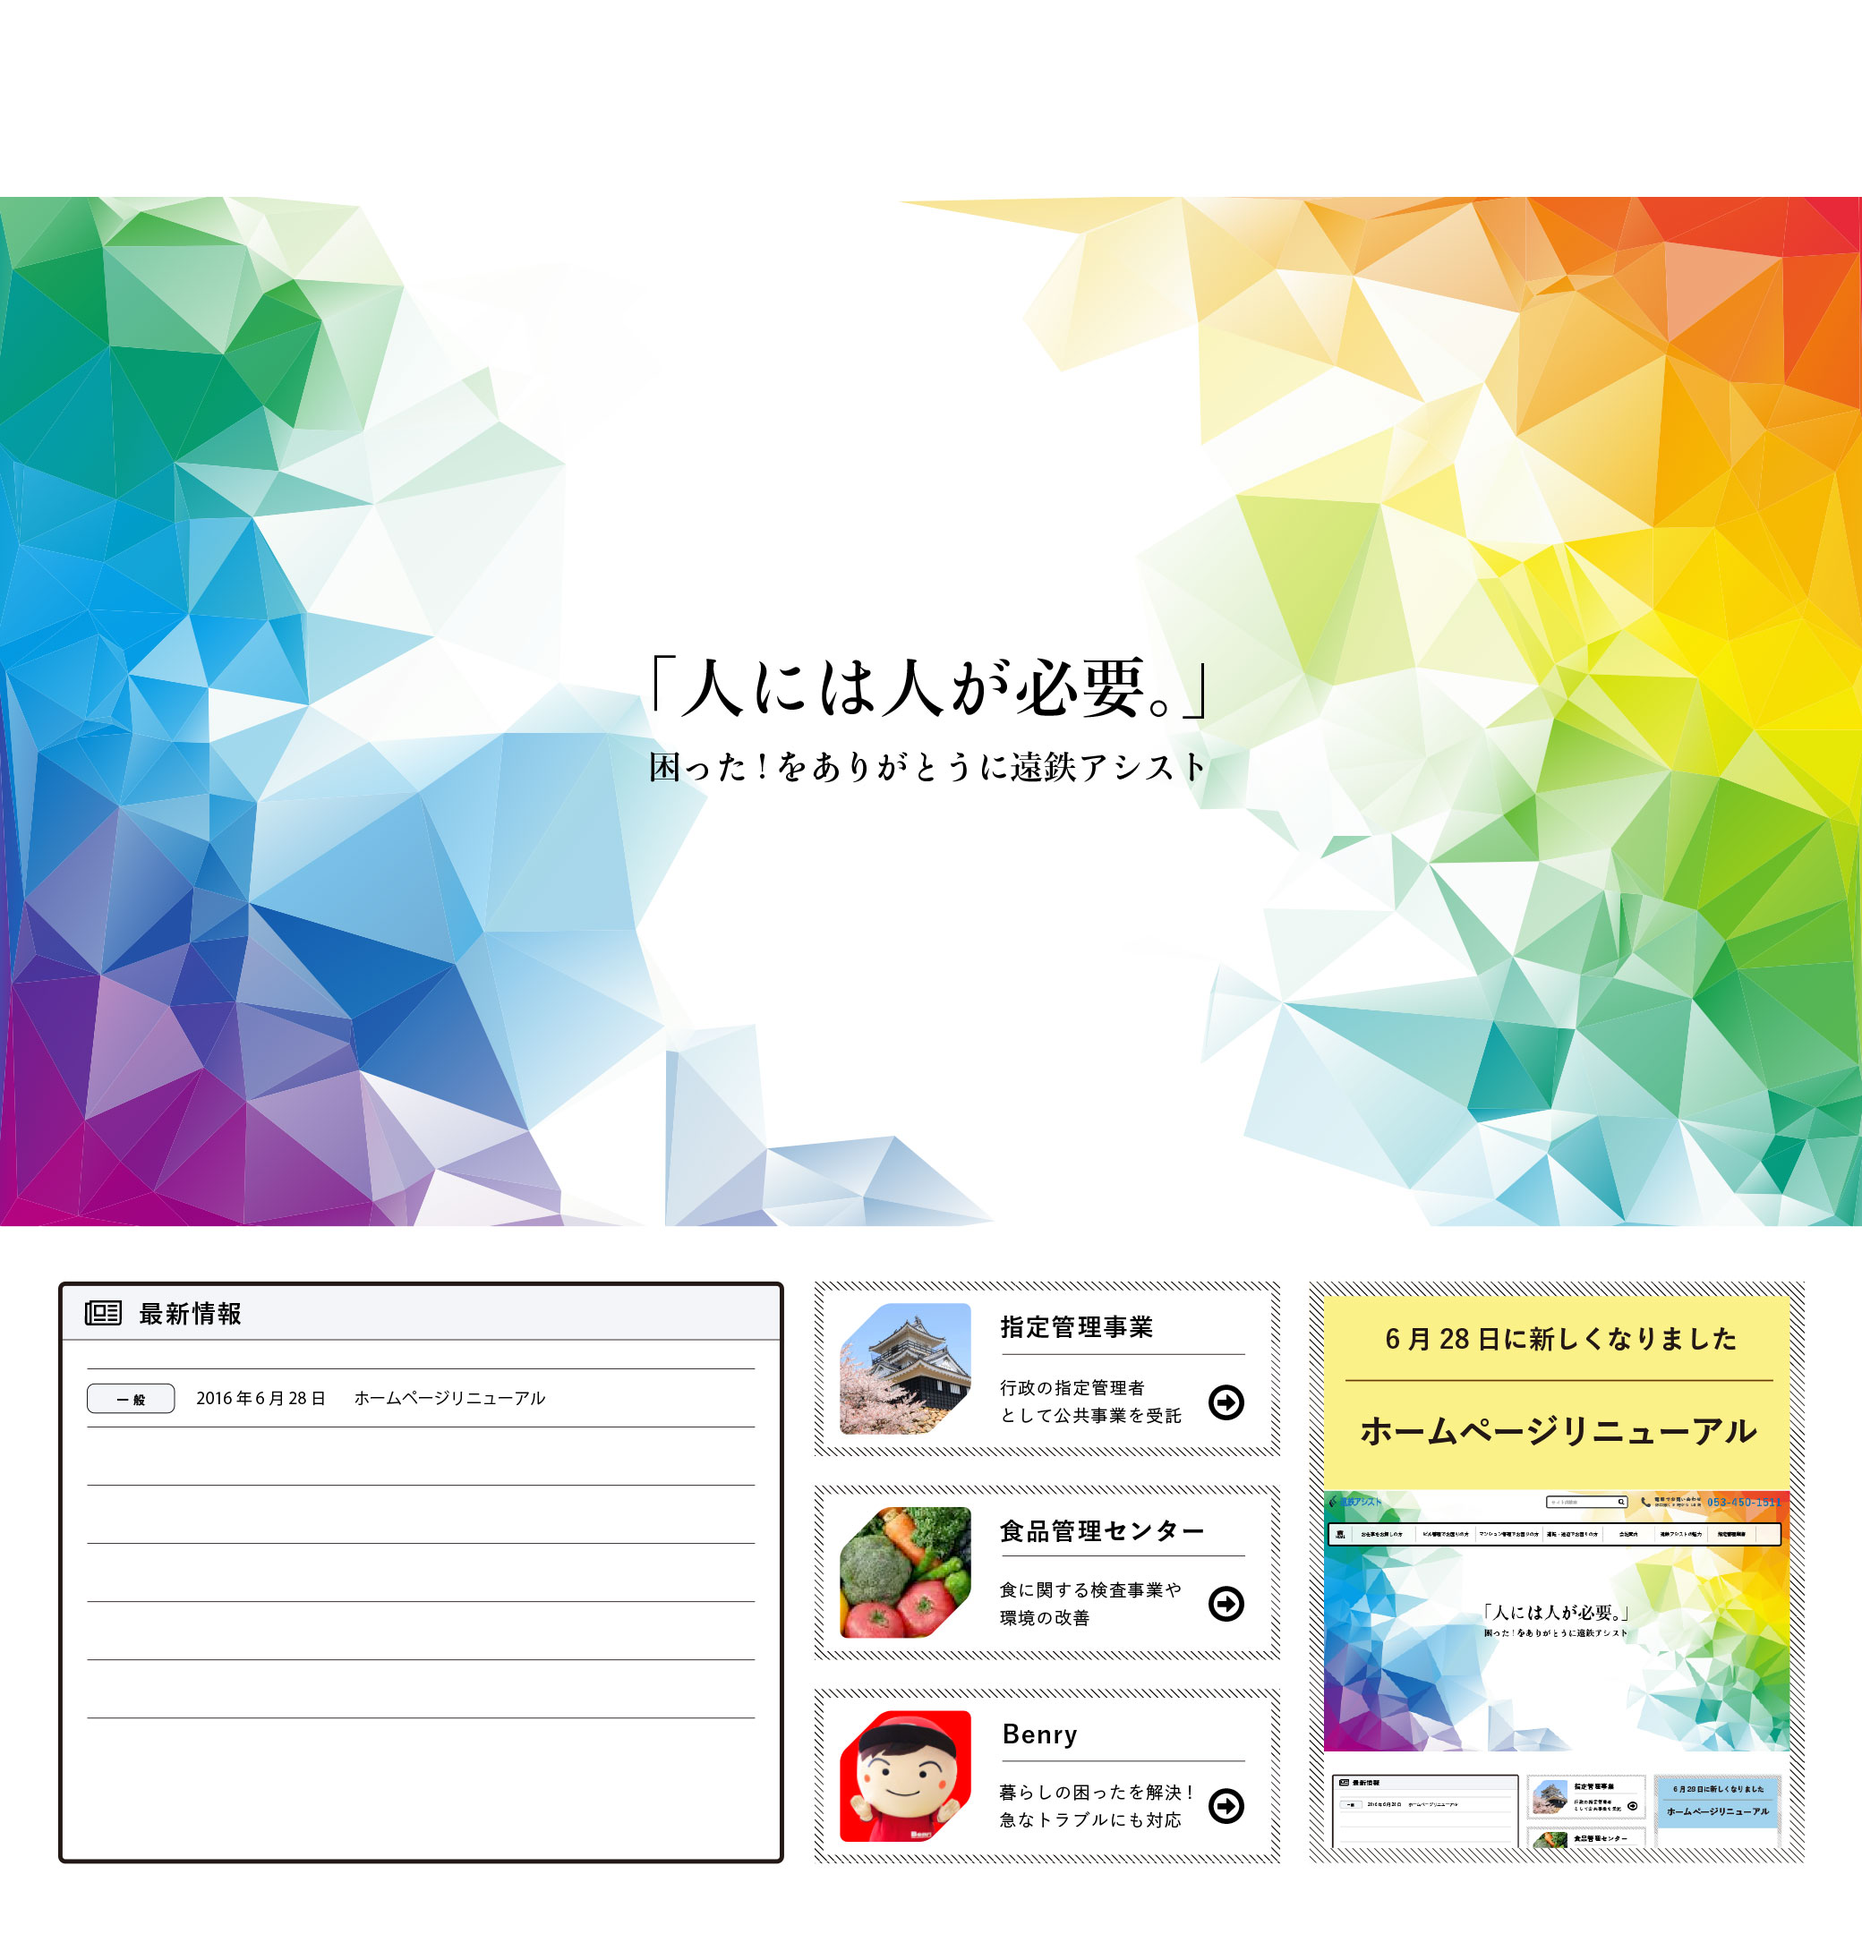
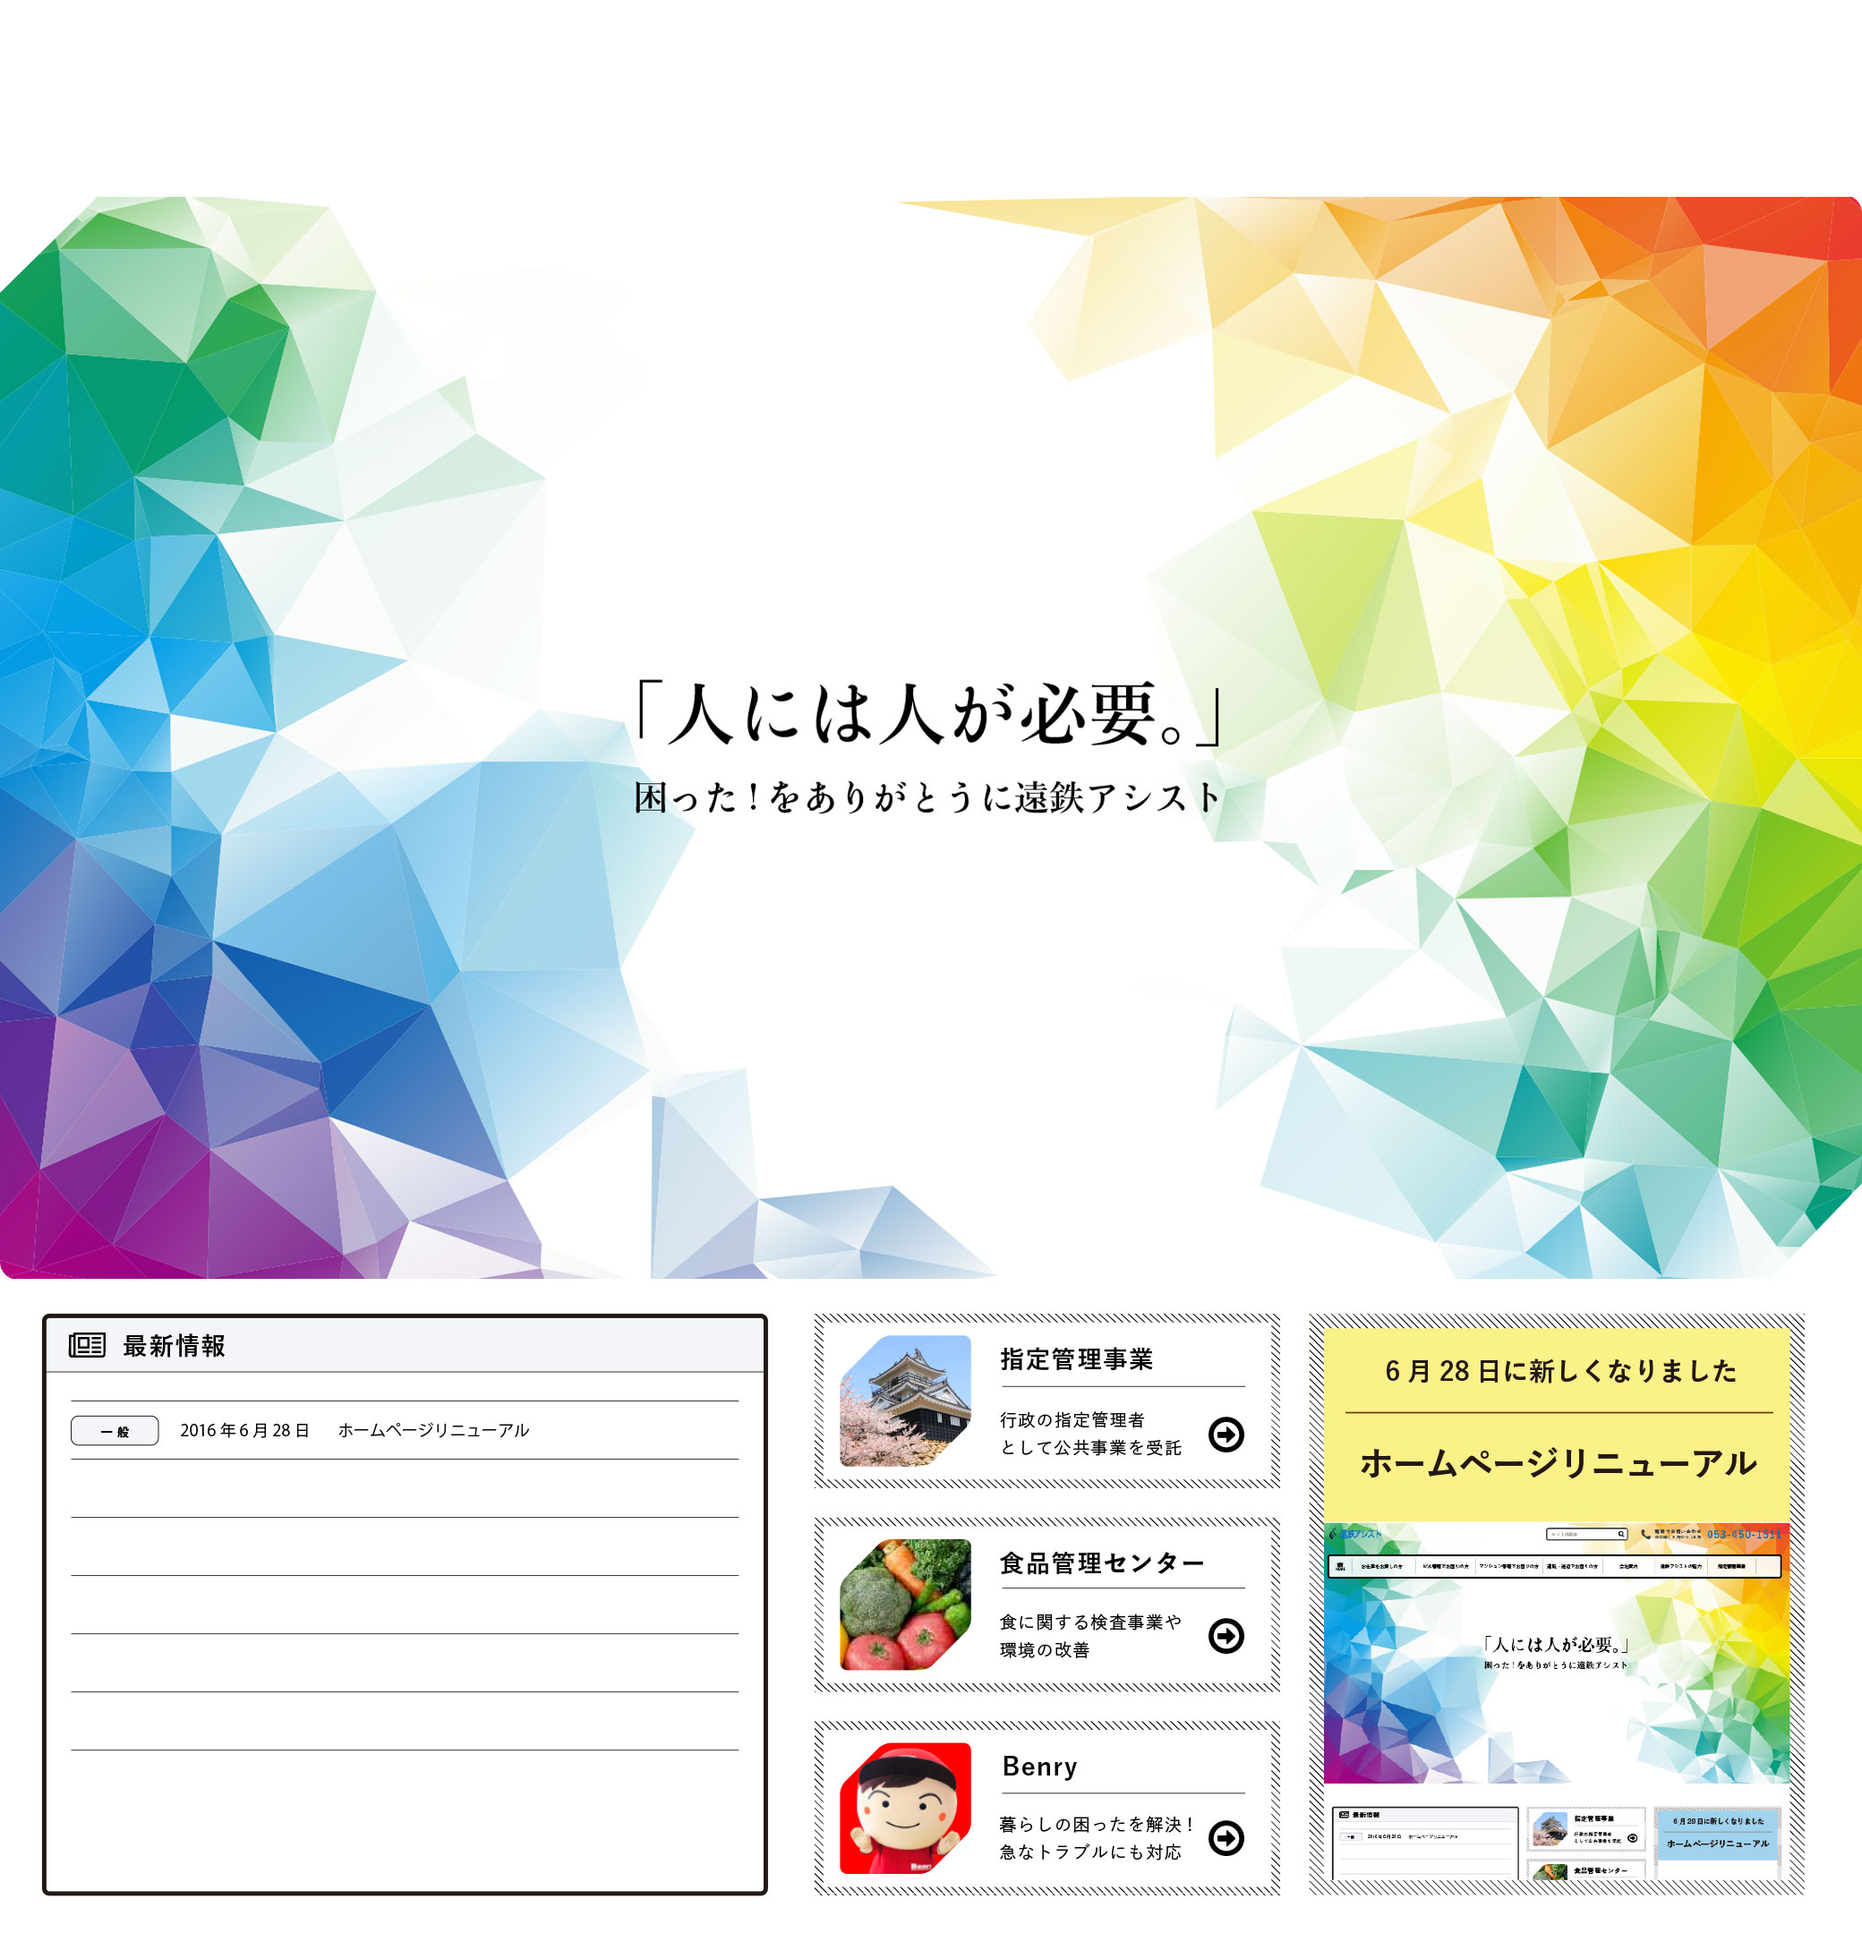
トップのイメージを調整

diff --git a/dist/build.js b/dist/build.js
@@ -1356,7 +1356,7 @@ var Home = function (_React$Component) {
       return _react2.default.createElement('article', { id: 'Home' }, _react2.default.createElement(_reactDocumentTitle2.default, { title: '遠鉄アシスト' }), _react2.default.createElement('img', {
         src: 'imgs/pages/top.jpg',
         width: '1040',
-        height: '1090',
+        height: '1080',
         alt: 'top'
       }));
     }

diff --git a/src/pages/front/Home.jsx b/src/pages/front/Home.jsx
@@ -16,7 +16,7 @@ export default class Home extends React.Component {
         <img
           src="imgs/pages/top.jpg"
           width="1040"
-          height="1090"
+          height="1080"
           alt="top"
           />
       </article>
